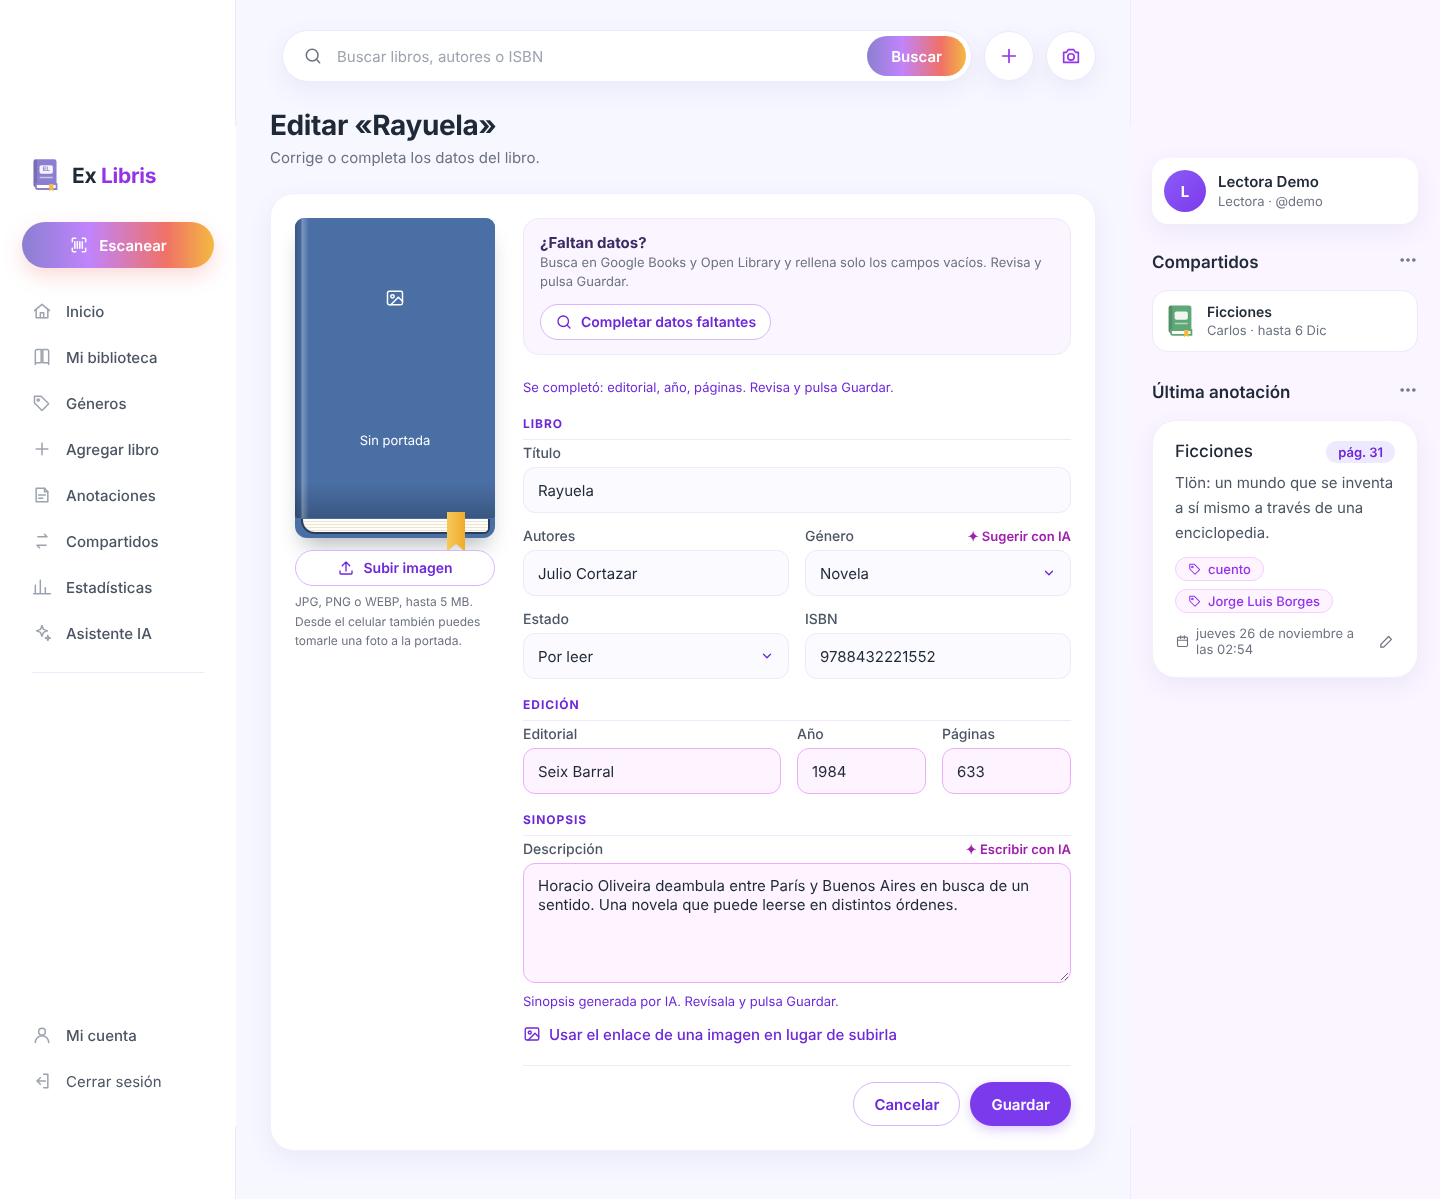
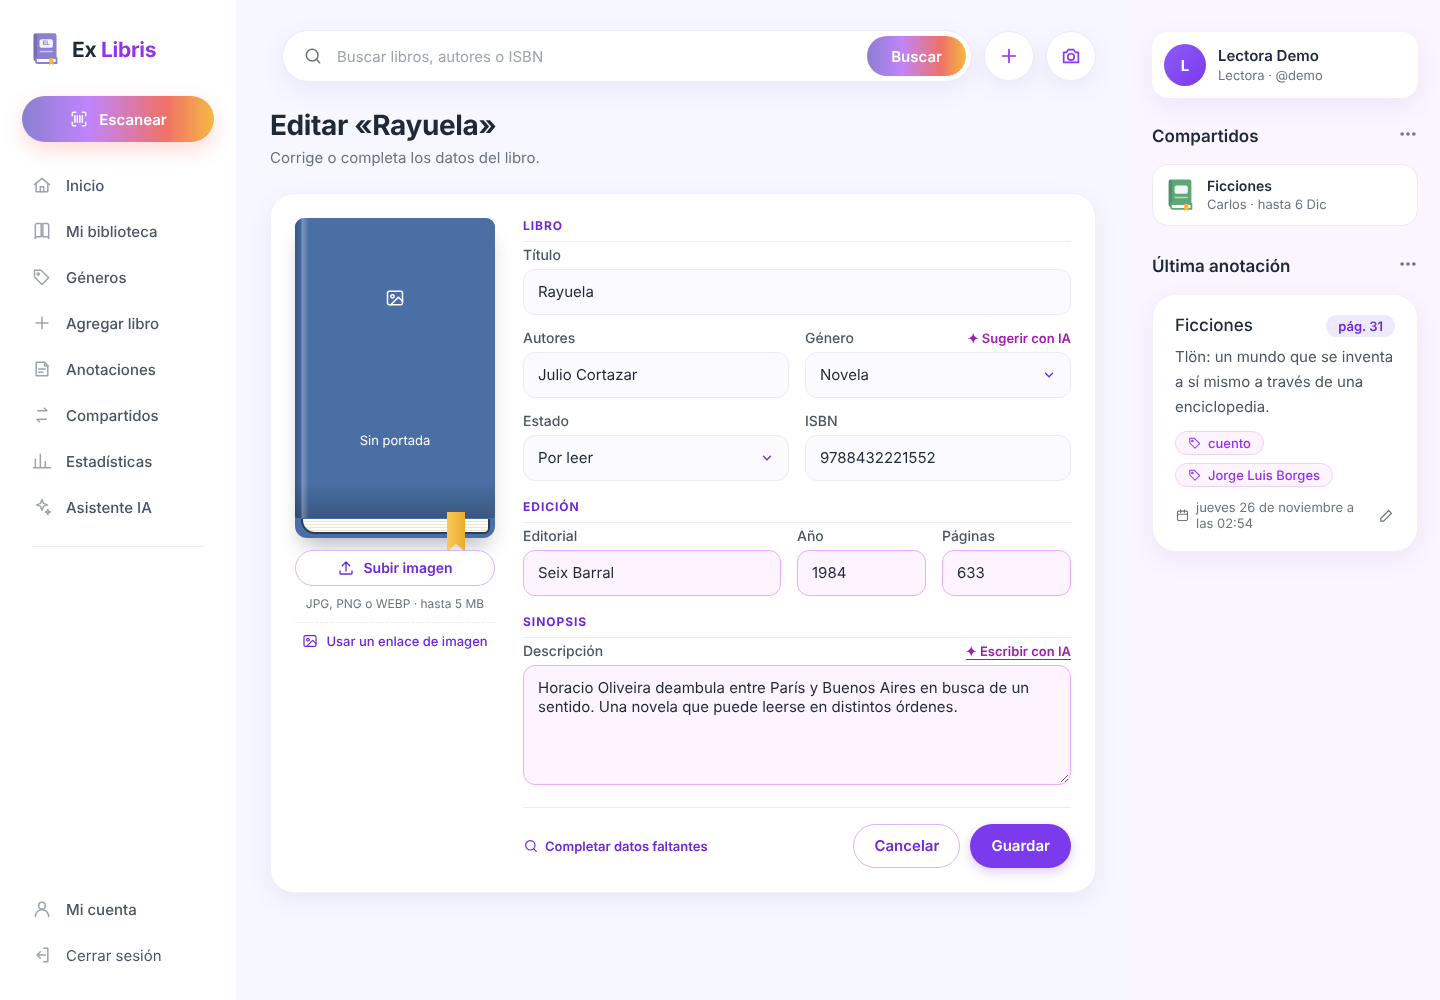
Formulario del libro: enlace de imagen bajo la portada, «Completar datos faltantes» abajo y sin mensajes de confirmación
Claude-Session: https://claude.ai/code/session_01GYL794gNVj3QXKcKwqtHSP

diff --git a/biblioteca/templates/biblioteca/libro_form.html b/biblioteca/templates/biblioteca/libro_form.html
@@ -30,29 +30,26 @@
         </div>
         <span class="paginas"></span><span class="cinta"></span>
       </div>
-      <div>
+      <div class="portada-opciones">
         <label class="subir">
           <span class="boton boton-secundario boton-mini" style="width:100%">{% icono 'subir' %} {% if portada %}Cambiar imagen{% else %}Subir imagen{% endif %}</span>
           <input type="file" name="portada" id="id_portada" accept="image/jpeg,image/png,image/webp" aria-describedby="ayuda-portada">
         </label>
-        <p class="ayuda" id="ayuda-portada" style="font-size:12px;color:var(--texto-suave);margin-top:6px">JPG, PNG o WEBP, hasta 5 MB. Desde el celular también puedes tomarle una foto a la portada.</p>
+        <p class="portada-ayuda" id="ayuda-portada">JPG, PNG o WEBP · hasta 5 MB</p>
         {% for e in form.portada.errors %}<p class="error" role="alert" style="color:var(--peligro);font-size:13px">{{ e }}</p>{% endfor %}
+        <details class="portada-enlace"{% if form.portada_url.errors %} open{% endif %}>
+          <summary class="enlace-plegable">{% icono 'imagen' %} Usar un enlace de imagen</summary>
+          <label class="solo-lectores" for="{{ form.portada_url.id_for_label }}">Enlace de la imagen de portada</label>
+          {{ form.portada_url }}
+          {% for e in form.portada_url.errors %}<p class="error" role="alert">{{ e }}</p>{% endfor %}
+        </details>
         {% if libro.portada %}
-          <label class="quitar-portada" style="margin-top:8px"><input type="checkbox" name="portada-clear" id="portada-clear_id"> Quitar la imagen subida</label>
+          <label class="quitar-portada"><input type="checkbox" name="portada-clear" id="portada-clear_id"> Quitar la imagen subida</label>
         {% endif %}
       </div>
     </div>
 
     <div class="form-campos">
-      <div class="completar-barra">
-        <div>
-          <strong>¿Faltan datos?</strong>
-          <span>Busca en Google Books y Open Library y rellena solo los campos vacíos. Revisa y pulsa Guardar.</span>
-        </div>
-        <button class="boton boton-secundario boton-mini" type="button" id="completar-datos" data-url="{% url 'completar_datos' %}">{% icono 'buscar' %} Completar datos faltantes</button>
-      </div>
-      <p class="ia-estado" id="completar-estado" role="status" hidden></p>
-
       <fieldset class="bloque-form">
         <legend>Libro</legend>
         <div class="rejilla-form">
@@ -80,13 +77,13 @@
         {% with accion='<button class="boton-enlace boton-ia-texto" type="button" id="ia-descripcion" title="Escribir una sinopsis breve con IA">✦ Escribir con IA</button>'|safe %}
           {% include "biblioteca/_campo_accion.html" with campo=form.descripcion estado_id="ia-descripcion-estado" %}
         {% endwith %}
-        <details>
-          <summary class="enlace-plegable">{% icono 'imagen' %} Usar el enlace de una imagen en lugar de subirla</summary>
-          <div style="margin-top:10px">{% include "biblioteca/_campo.html" with campo=form.portada_url %}</div>
-        </details>
       </fieldset>
 
       <div class="acciones-form">
+        <div class="acciones-izquierda">
+          <button class="boton-enlace" type="button" id="completar-datos" data-url="{% url 'completar_datos' %}" title="Busca en Google Books y Open Library y rellena solo los campos vacíos">{% icono 'buscar' %} Completar datos faltantes</button>
+          <span class="ia-estado" id="completar-estado" role="status" hidden></span>
+        </div>
         <a class="boton boton-secundario" href="{% if libro %}{% url 'libro_detalle' libro.pk %}{% else %}{% url 'biblioteca' %}{% endif %}">Cancelar</a>
         <button class="boton boton-primario" type="submit">Guardar</button>
       </div>
@@ -104,7 +101,7 @@
   if (btn) btn.addEventListener("click", async () => {
     est.hidden = false; est.classList.remove("error");
     if (!valor("id_titulo") && !valor("id_isbn")) { est.textContent = "Escribe al menos el título o el ISBN."; est.classList.add("error"); return; }
-    btn.disabled = true; btn.classList.add("cargando"); est.textContent = "Buscando en los catálogos…";
+    btn.disabled = true; btn.classList.add("cargando"); est.textContent = "Buscando…";
     const r = await window.exlibrisIA(btn.dataset.url, { isbn: valor("id_isbn"), titulo: valor("id_titulo"), autores: valor("id_autores") });
     btn.disabled = false; btn.classList.remove("cargando");
     if (!r.ok) { est.textContent = r.error; est.classList.add("error"); return; }
@@ -115,7 +112,7 @@
     const genero = document.getElementById("id_genero");
     if (genero && !genero.value && d.genero) { genero.value = d.genero; hechos.push("género"); }
     if (d.portada_url && document.getElementById("vista-portada").hidden) document.getElementById("id_portada_url").dispatchEvent(new Event("change"));
-    est.textContent = hechos.length ? "Se completó: " + hechos.join(", ") + ". Revisa y pulsa Guardar." : "Los catálogos no tienen más datos para este libro.";
+    if (hechos.length) est.hidden = true; else est.textContent = "No se encontraron más datos.";
   });
   const bDesc = document.getElementById("ia-descripcion"), eDesc = document.getElementById("ia-descripcion-estado");
   if (bDesc) bDesc.addEventListener("click", async () => {
@@ -128,7 +125,7 @@
     bDesc.disabled = false;
     if (!r.ok) { eDesc.textContent = r.error; eDesc.classList.add("error"); return; }
     area.value = r.datos.texto; area.classList.add("recien-completado");
-    eDesc.textContent = "Sinopsis generada por IA. Revísala y pulsa Guardar.";
+    eDesc.hidden = true;
   });
 })();
 /* IA: sugerir género (de la lista) y etiquetas a partir del título, autor y descripción. */

diff --git a/biblioteca/static/biblioteca/css/exlibris.css b/biblioteca/static/biblioteca/css/exlibris.css
@@ -1104,10 +1104,6 @@ a.perfil { transition: box-shadow .15s; } a.perfil:hover { box-shadow: var(--som
 
 /* ---------- Formulario del libro: bloques ordenados ---------- */
 .form-campos { display: grid; gap: 18px; min-width: 0; }
-.completar-barra { display: flex; align-items: center; justify-content: space-between; gap: 14px; flex-wrap: wrap;
-  padding: 14px 16px; border-radius: var(--radio-md); background: var(--lila-50); border: 1px solid var(--borde); }
-.completar-barra strong { display: block; color: #3b2a63; font-size: 15px; }
-.completar-barra span { font-size: 13px; color: var(--texto-suave); }
 .bloque-form { border: 0; padding: 0; margin: 0; display: grid; gap: 12px; min-width: 0; }
 .bloque-form > legend { font-size: 12px; font-weight: 700; letter-spacing: .08em; text-transform: uppercase; color: var(--primario-texto);
   padding: 0 0 8px; margin-bottom: 4px; width: 100%; border-bottom: 1px solid var(--borde); }
@@ -1123,8 +1119,20 @@ a.perfil { transition: box-shadow .15s; } a.perfil:hover { box-shadow: var(--som
 .boton-ia-texto { color: #a21caf; }
 .campo textarea#id_descripcion { min-height: 120px; }
 .recien-completado { border-color: #f0abfc !important; background: #fdf4ff !important; }
-.acciones-form { display: flex; justify-content: flex-end; gap: 10px; padding-top: 16px; border-top: 1px solid var(--borde); }
+.acciones-form { display: flex; justify-content: flex-end; align-items: center; flex-wrap: wrap; gap: 10px; padding-top: 16px; border-top: 1px solid var(--borde); }
+.acciones-izquierda { margin-right: auto; display: flex; align-items: center; gap: 10px; flex-wrap: wrap; min-width: 0; }
+.acciones-izquierda .boton-enlace { display: inline-flex; align-items: center; gap: 6px; }
+.acciones-izquierda .boton-enlace .icono { width: 16px; height: 16px; }
+.acciones-izquierda .ia-estado { margin: 0; }
+/* Opciones de portada debajo del libro */
+.portada-opciones { display: grid; gap: 8px; min-width: 0; }
+.portada-ayuda { font-size: 12px; color: var(--texto-suave); text-align: center; margin: 0; }
+.portada-enlace { padding-top: 10px; border-top: 1px dashed var(--borde); }
+.portada-enlace summary { font-size: 13px; justify-content: center; width: 100%; }
+.portada-enlace summary .icono { width: 16px; height: 16px; }
+.portada-enlace input { margin-top: 8px; width: 100%; font-size: 13px; }
 @media (max-width: 860px) {
   .rejilla-form, .rejilla-form.edicion { grid-template-columns: 1fr; }
   .acciones-form { justify-content: stretch; } .acciones-form .boton { flex: 1; }
+  .acciones-izquierda { width: 100%; justify-content: center; }
 }
